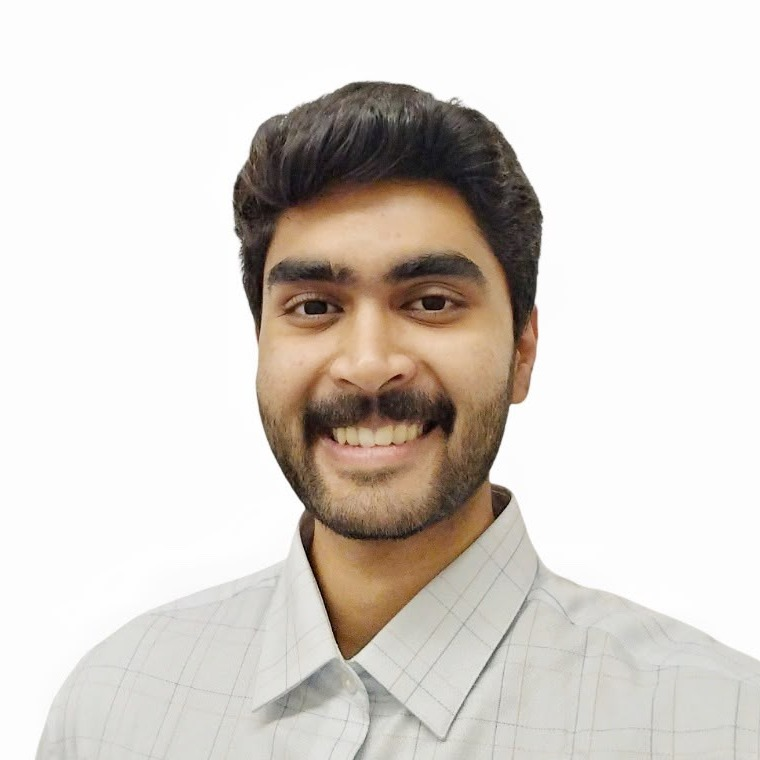
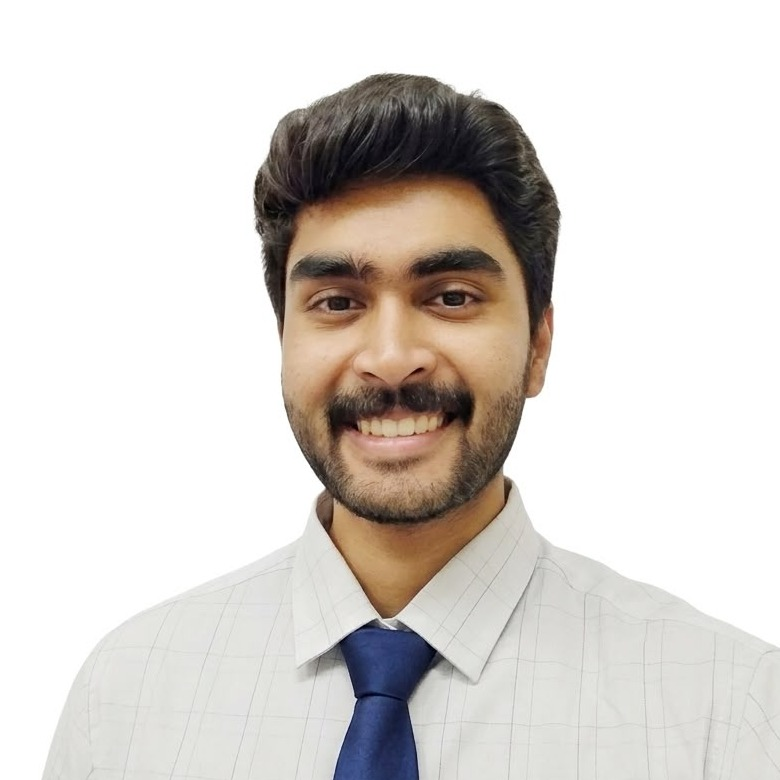
Updated portrait

diff --git a/index.html b/index.html
@@ -76,7 +76,7 @@
           </p>
         </div>
         <figure class="portrait">
-          <img src="assets/portrait.jpg" alt="Anoop Senthil" width="760" height="760" />
+          <img src="assets/portrait.jpg?v=2" alt="Anoop Senthil" width="780" height="780" />
         </figure>
       </section>
 
